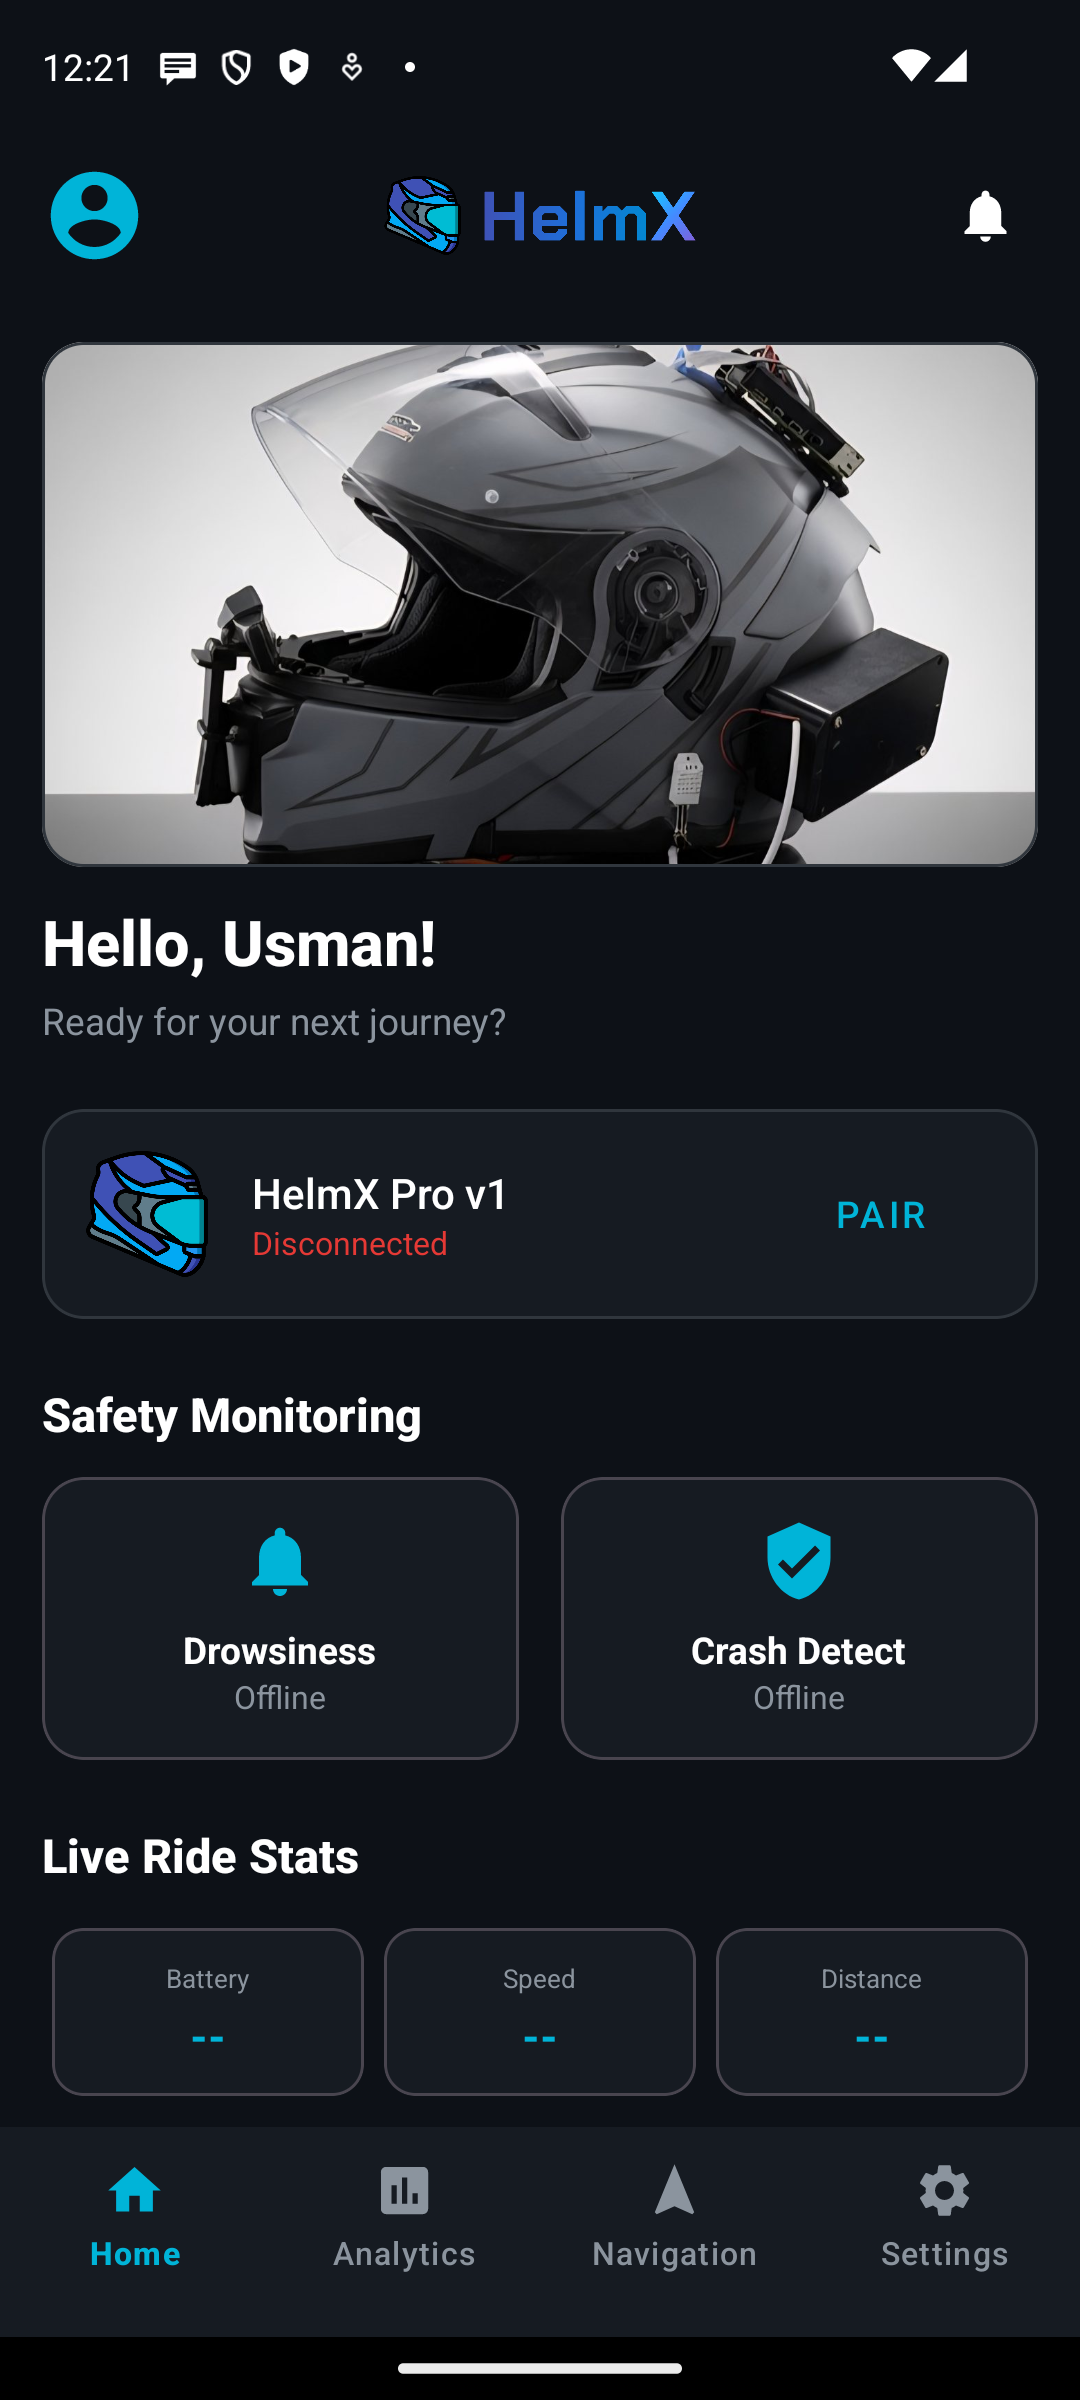
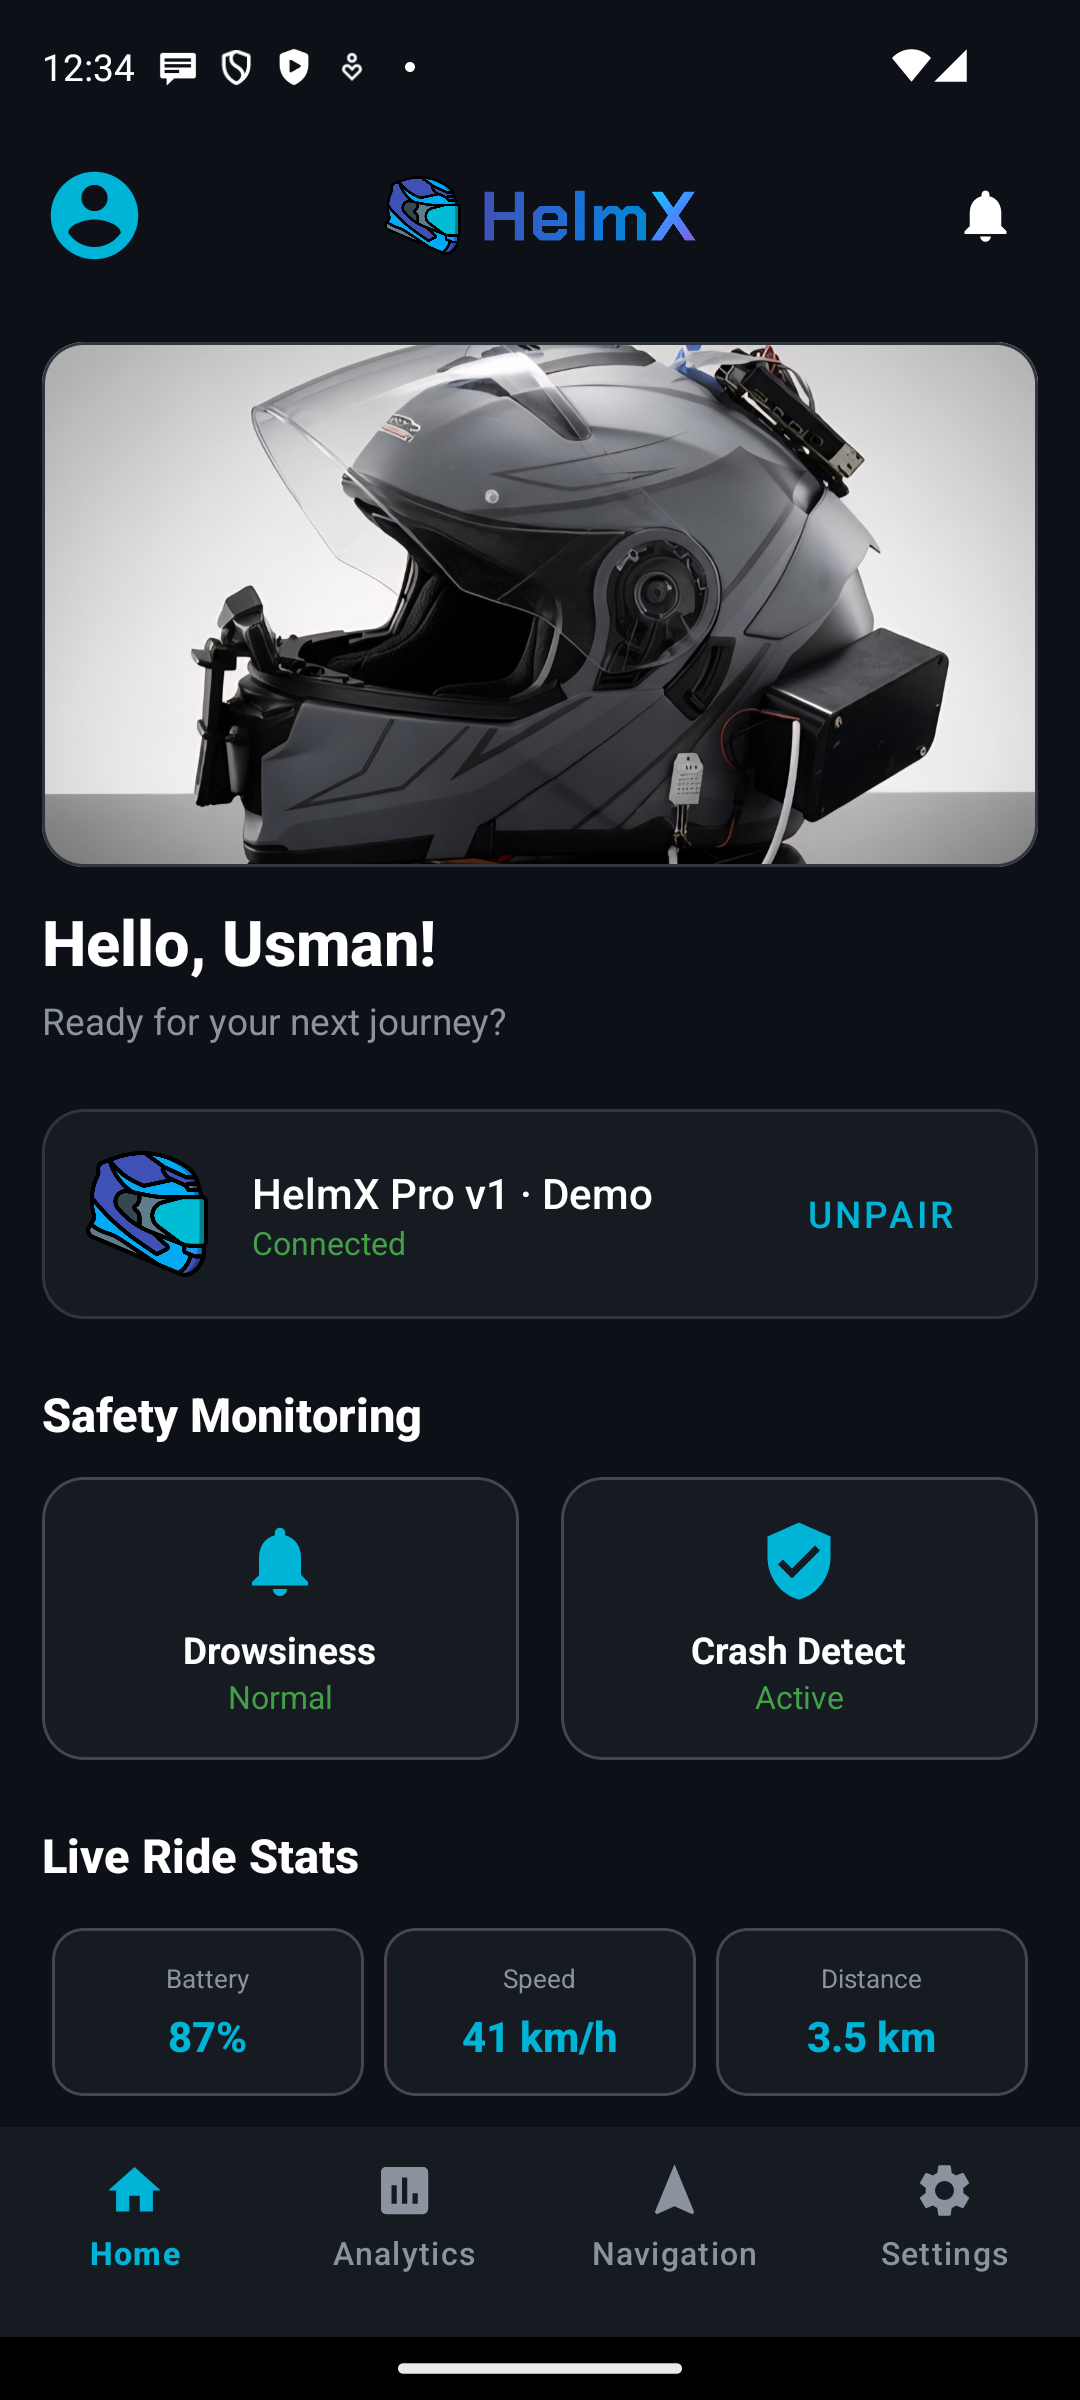
Update screenshots with live helmet data and a recorded ride
Home and Analytics now show readings from the demo helmet and a ride
recorded by the app, and the README explains how the screenshots were
made.

diff --git a/README.md b/README.md
@@ -107,7 +107,7 @@ This repository contains the **Android app**, the rider's companion to the helme
   </tr>
 </table>
 
-<sub>Screenshots were taken on a Pixel 8 emulator (Android 14) with a simulated GPS position in Lahore and no helmet connected, so the helmet readings show as offline. Screens from before the Settings redesign are kept in <a href="docs/screenshots/before-redesign">docs/screenshots/before-redesign</a>.</sub>
+<sub>Screenshots were taken on a Pixel 8 emulator (Android 14) with a simulated GPS position in Lahore. Helmet readings (battery, speed, temperature, humidity, air quality) come from the debug-only demo helmet described under <a href="#testing">Testing</a>; rides were recorded by the app from a simulated drive. Screens from before the Settings redesign are kept in <a href="docs/screenshots/before-redesign">docs/screenshots/before-redesign</a>.</sub>
 
 ---
 
@@ -321,6 +321,8 @@ Searches and route requests are sent to Photon and OSRM to get results. Users ca
 | `ValidatorsTest` | Phone number validation |
 
 The UI flows were tested manually on a Pixel 8 emulator (Android 14) with simulated GPS.
+
+**Demo helmet (debug builds only).** To try the app without the hardware, long-press **Pair** on the Home screen. The app then receives simulated helmet readings (battery, speed, distance, temperature, humidity, air quality) and shows *HelmX Pro v1 · Demo*. It never reports a crash or drowsiness, and it is not available in release builds. Long-press again or tap **Unpair** to stop.
 
 ---
 
